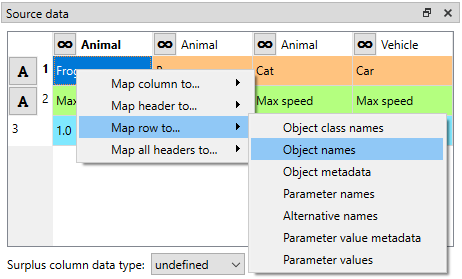
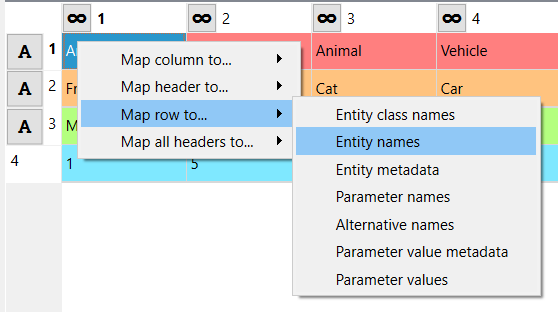
Update docs import -section
Re #2513

diff --git a/docs/source/data_import_export.rst b/docs/source/data_import_export.rst
@@ -69,53 +69,48 @@ question so it is easier to visualize how the importer is handling the data.
 Importer specification editor
 ~~~~~~~~~~~~~~~~~~~~~~~~~~~~~
 
-The left side of the **Importer Specification Editor** contains four dock widgets that deal with the input source data.
-**Source files** contains the filepath to the current input file.
-**Source tables** contains the different tables the file has or that user has set up.
-**Source options** has a few options on how to handle the incoming data.
-The available options depend on the connector type.
-**Source data** allows for previewing of the data selected in **Source files**
-and also of the currently selected mapping.
-
-The right side of the spec editor shows import mappings for the table selected in **Source tables**.
-**Mappings** lets you add, duplicate and remove mappings or
-select a mapping to modify its options. **Mapping options** allow you to specify things like what item type
-you are importing. In **Mapping specification** you can select the specific places in the source data where the
-object names, values etc. will be taken from.
+In the upper part of the specification editor, the name and description for the specification can be set.
+Underneath, the filepath is shown and it is allowed to br modified. Next to the filepath the used connector type
+is shown. On the left side, the different tables the file has or that user has set up are shown. Next to that
+there are the connector specific options and underneath that a preview of the selected table is shown. The items in
+the table are highlighted according to the selected mapping. The mappings are listed on the right side of the editor.
+underneath, the to be imported item types can be specified and other options set. Below that
+you can select the specific places in the source data where the entity names, values etc. will be taken from.
 
 .. image:: img/import_editor_window.png
    :align: center
 
-All tables available in the file selected in **Source files** are listed in **Source tables**.
+All tables available in the file selected in **File path** are listed in the leftmost dock widget.
 If the file does not have tables or the file type does not support them (e.g. CSV), all of the file's data will be
 in a single table called 'data'.
 The tables can be selected and deselected using the check boxes
 and only the selected ones will be imported.
 The option *Select All* is useful for selecting or deselecting all tables.
-If the Importer is opened in `anonymous mode`_, there is also the option to add tables.
+If the Importer is opened in `anonymous mode`_, there is also the option to add tables
 
 .. tip:: Multiple CSV files can be bundled into a *datapackage* which uses its own connector in Importer.
    Specifically, each CSV file in the datapackage shows up as a separate table in **Source tables**.
    See :ref:`Setting up datapackages in Links` for more information on how to pack CSVs into a datapackage
    automatically within your workflow.
 
-**Source options** contains options to "format" the incoming data. The available options can differ depending on the
-selected connector. The above picture shows the available options for Excel files. **Max rows** specifies the amount of
-rows from the input data that are considered by the Importer. The option **Has header** converts the first row into
-headers. **Skip rows** and **Skip columns** skip the first *N* specified rows or columns from the table.
-If the table has empty rows or columns and some other data after that that you don't want to use,
-**Read until empty row/column on first column/row** options can be used to "crop" the imported data to the
-first relevant block of information. Other possible options for different connector types include
-**Encoding**, **Delimiter**, **Custom Delimiter**, **Quotechar** and **Maximum Depth**.
-**Load default mapping** sets all of the selections in the spec editor
-to their default values. Be careful not to press this button unless you want to wipe the whole specification clean.
+Next to the table dock widget, there is a small dock widget that allows to "format" the incoming data.
+The available options can differ depending on the selected connector. The above picture shows the available
+options for Excel files. **Max rows** specifies the amount of rows from the input data that are considered
+by the Importer. The option **Has header** converts the first row into headers. **Skip rows** and **Skip columns**
+skip the first *N* specified rows or columns from the table. If the table has empty rows or columns and some
+other data after that that you don't want to use, **Read until empty row/column on first column/row** options
+can be used to "crop" the imported data to the first relevant block of information. Other possible options for
+different connector types include **Encoding**, **Delimiter**, **Custom Delimiter**, **Quotechar** and
+**Maximum Depth**. **Load default mapping** sets all of the selections in the spec editor to their default values.
+Be careful not to press this button unless you want to wipe the whole specification clean.
 
 .. note:: If you are working on a specification and accidentally press the *load default mapping* button
           you can undo previous changes for the specification from the hamburger menu or by pressing **Ctrl+Z**.
           To redo actions, or press **Crl+Y**.
 
-**Source data** shows the selected table's data and a preview of how the selected mapping will import the data.
-An important aspect of data import is whether each item in the input data should be read as a string, a number,
+When a table is selected, it's data and a preview of how the selected mapping will
+import the data will be presented under the options dock widget. An important aspect of data import is
+whether each item in the input data should be read as a string, a number,
 a time stamp or something else. By default all input data is read as strings.
 However, more often than not things like parameter values are actually numbers. Though types are usually casted automatically,
 it is possible to manually control what type of data each column (and sometimes each row) contains from the preview table.
@@ -127,26 +122,27 @@ Right clicking the column/row header also gives the opportunity to change the da
 
 Under **Mappings** you can manage mappings by adding new ones and removing or duplicating existing ones.
 Each table has it's own mappings and every mapping has its own options. In **Mappings** you can select the mapping
-that you want to start modifying. Having multiple mappings for a single table allows to for example import relationship
-classes and object classes at the same time from a single table in a file.
+that you want to start modifying. Having multiple mappings for a single table allows to for example import
+multiple item types at the same time from a single table in a file.
 
-**Mapping options** helps the importer get a feel for what kind of data it will be importing.
-The available *item type* options are *Object class, Relationship class, Object group, Alternative, Scenario,
-Scenario alternative, Parameter value list, Feature, Tool, Tool feature* and *Tool feature method*. The other available
-options are dependent on the Item type. *Import objects* allows to import objects alongside relationships
-or object groups. *Parameter type* is used to specify what type of parameters, if any, the sheet contains. It has options
+Underneath **Mappings** there are options that help the importer get a feel for what kind of data it will be importing.
+The available *item type* options are *Entity class, Entity group, Alternative, Scenario,
+Scenario alternative* and *Parameter value list*. The other available
+options are dependent on the Item type. *Import entities* allows to import entities alongside
+or entity groups. *Parameter type* is used to specify what type of parameters, if any, the sheet contains. It has options
 *Value, Definition* and *None*. If *Value* or *Definition* is selected
 the value or respectively the default value type can be set from the drop-down list. *Use before alternative* is only
 available for *Scenario alternative* -item type. *Read data from row* lets you specify the row where the importer
 starts to read the data. *Ignore columns* allow you to select individual columns that you want to exclude from the
-whole importing process. *Number of dimensions* sets the amount of dimensions the relationship to be imported has.
+whole importing process. *Number of dimensions* sets the amount of dimensions the entity to be imported has.
 *Repeat time series* sets the repeat flag to true when importing time series. *Map dimensions* sets the
-number of map indexes when importing map values.
+number of map indexes when importing map values. *Use before alternative* maps scenario before alternatives when
+importing scenario alternatives. *Compress Maps* can be used to compress value maps.
 
-Once everything in **Mapping options** is in order, the next step is to set the mapping specification.
-**Mapping specification** is the part where the decisions are made on how the input data is interpreted:
+Once everything in the before mentioned options is in order, the next step is to set the mapping specification.
+Below the options there is the part where the decisions are made on how the input data is interpreted:
 which row or column contains the entity class names, parameter values, time stamps and so on.
-The **Mapping specification** dock widget contains all of the targets that the selected mapping options specify.
+The dock widget contains all of the targets that the selected mapping options specify.
 Each target has a *Source reference* and a *Source type*. *Source type* specifies if the data for the target
 is coming in the form of a column, row, table name etc. In the *Source ref.* section you can pinpoint to the
 exact row, column etc. to use as the data. The *Filter* section can be used to further specify which values to
@@ -172,12 +168,12 @@ opening the spec editor from Toolbox **Main Toolbar**.
 .. image:: img/importer_spec_editor_anonymous_mode.png
    :align: center
 
-In anonymous mode new tables can be created in **Source tables** by double clicking *<rename this to add table>*
-and writing in a name for the new table. The **Source data** will contain an infinite grid of cells on which you
+In anonymous mode new tables can be created by double clicking *<rename this to add table>*
+and writing in a name for the new table. The preview will show an infinite grid of cells on which you
 can create different mappings.
 
 .. note:: You can exit the Anonymous mode by browsing to and selecting an existing file using the controls in
-   **Source files** dock.
+   *File path*.
 
 Exporting data with Exporter
 ****************************
